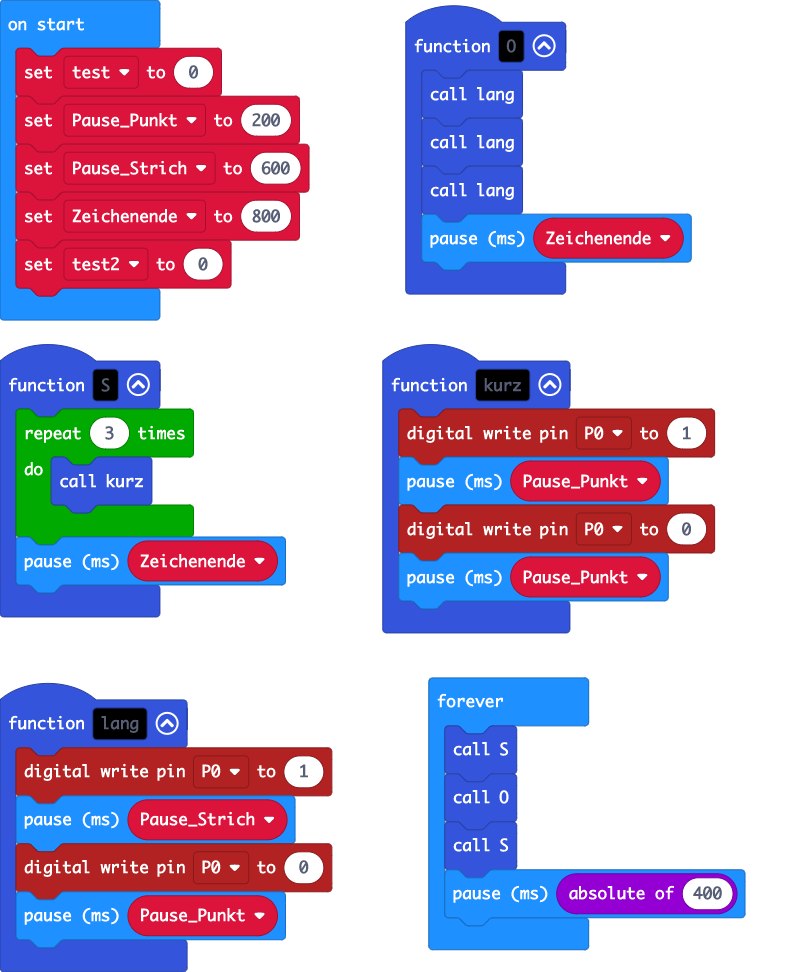
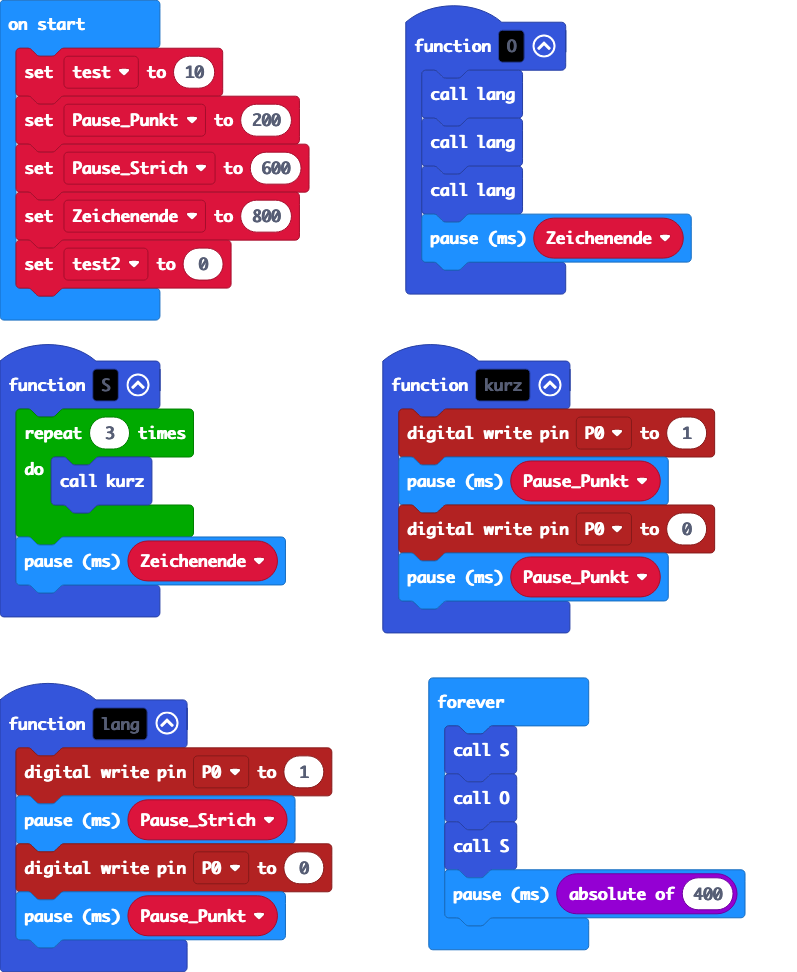
Update main.blocks, main.ts

diff --git a/main.ts b/main.ts
@@ -25,7 +25,7 @@ function lang () {
 let Zeichenende = 0
 let Pause_Strich = 0
 let Pause_Punkt = 0
-let test = 0
+let test = 10
 Pause_Punkt = 200
 Pause_Strich = 600
 Zeichenende = 800
